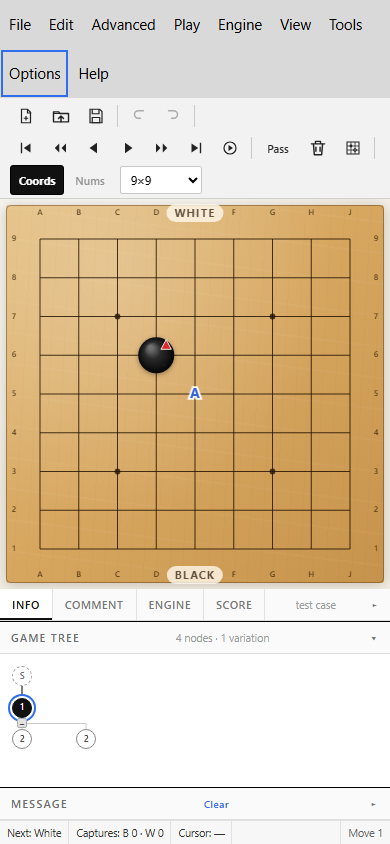
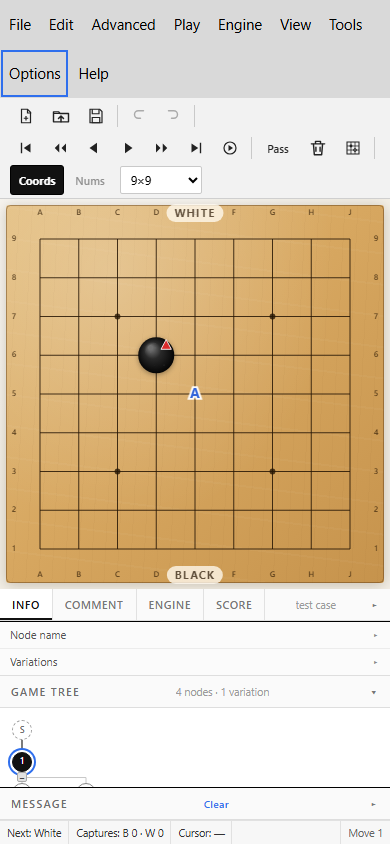
Add collapsible Node name and Variations sections

diff --git a/src/renderer.js b/src/renderer.js
@@ -131,6 +131,13 @@
   const fileLabel = $('#file-label');
   const infoDone = $('#info-done');
   const treeMeta = $('#tree-meta');
+  const branchPanels = $('#branch-panels');
+  const nodeNameHead = $('#node-name-head');
+  const nodeNameBody = $('#node-name-body');
+  const branchNodeName = $('#branch-node-name');
+  const variationsHead = $('#variations-head');
+  const variationsBody = $('#variations-body');
+  const variationsList = $('#variations-list');
   const gameTree = $('#game-tree');
   const infoFields = {
     black: $('#info-black'), blackRank: $('#info-black-rank'), blackTeam: $('#info-black-team'),
@@ -335,6 +342,8 @@
     showSiblings: false,
     zoom: 1,
     showTree: true,
+    nodeNameOpen: false,
+    variationsOpen: true,
     language: 'en',
     theme: 'classic',
     autoLayout: true,
@@ -400,6 +409,8 @@
         showSiblings: parsed.showSiblings === true,
         zoom: clamp(Number(parsed.zoom) || 1, 0.5, 2),
         showTree: parsed.showTree !== false,
+        nodeNameOpen: parsed.nodeNameOpen === true,
+        variationsOpen: parsed.variationsOpen !== false,
         language: parsed.language === 'zh' ? 'zh' : 'en',
         theme: THEMES.includes(parsed.theme) ? parsed.theme : 'classic',
         autoLayout: parsed.autoLayout !== false,
@@ -850,6 +861,7 @@
   let lastBoardError = '';
   let portraitLayout = false;
   let portraitOpenPanel = 'tree';
+  let portraitBranchOpen = null;
   let responsiveFrame = 0;
 
   const startupParams = new URLSearchParams(window.location.search);
@@ -3392,6 +3404,102 @@
     if (current) current.scrollIntoView({ block: 'nearest', inline: 'nearest' });
   }
 
+  function applyBranchSectionState() {
+    const nameOpen = portraitLayout ? portraitBranchOpen === 'name' : settings.nodeNameOpen;
+    const variationsOpen = portraitLayout ? portraitBranchOpen === 'variations' : settings.variationsOpen;
+    nodeNameBody.hidden = !nameOpen;
+    variationsBody.hidden = !variationsOpen;
+    nodeNameHead.setAttribute('aria-expanded', String(nameOpen));
+    variationsHead.setAttribute('aria-expanded', String(variationsOpen));
+    nodeNameHead.querySelector('.tree-section-chevron').textContent = nameOpen ? '▾' : '▸';
+    variationsHead.querySelector('.tree-section-chevron').textContent = variationsOpen ? '▾' : '▸';
+  }
+
+  function renderBranchSections() {
+    if (!tree) return;
+    const node = currentNode();
+    branchNodeName.value = node?.data.N?.[0] || '';
+    branchNodeName.disabled = readOnly;
+    variationsList.replaceChildren();
+    const children = node?.children || [];
+    if (children.length === 0) {
+      const empty = document.createElement('div');
+      empty.className = 'variations-empty';
+      empty.textContent = 'No next moves.';
+      variationsList.append(empty);
+      return;
+    }
+    const head = document.createElement('div');
+    head.className = 'variations-row is-head';
+    for (const text of ['#', 'Move', 'Branch']) {
+      const cell = document.createElement('span');
+      cell.textContent = text;
+      head.append(cell);
+    }
+    variationsList.append(head);
+    const dims = gameSize();
+    children.forEach((child, index) => {
+      const row = document.createElement('button');
+      row.type = 'button';
+      row.className = 'variations-row';
+      row.title = `Go to next move ${index + 1}`;
+      const number = document.createElement('span');
+      number.textContent = String(index + 1);
+      const move = document.createElement('span');
+      move.textContent = nodeLabel(child, dims);
+      const name = document.createElement('span');
+      name.textContent = child.data.N?.[0]?.trim() || `Branch ${index + 1}`;
+      row.append(number, move, name);
+      row.addEventListener('click', () => selectNode(child.id));
+      variationsList.append(row);
+    });
+  }
+
+  function commitBranchNodeName() {
+    if (!tree || readOnly) return;
+    const node = currentNode();
+    if (!node) return;
+    const value = branchNodeName.value.trim();
+    const previous = (node.data.N?.[0] || '').trim();
+    if (value === previous) { branchNodeName.value = previous; return; }
+    mutateTree((draft) => {
+      if (value) draft.updateProperty(node.id, 'N', [value]);
+      else draft.removeProperty(node.id, 'N');
+    }, { message: value ? 'Node name updated.' : 'Node name removed.' });
+  }
+
+  nodeNameHead.addEventListener('click', () => {
+    if (portraitLayout) {
+      portraitBranchOpen = portraitBranchOpen === 'name' ? null : 'name';
+      applyBranchSectionState();
+      return;
+    }
+    settings.nodeNameOpen = !settings.nodeNameOpen;
+    saveSettings();
+    applyBranchSectionState();
+  });
+  variationsHead.addEventListener('click', () => {
+    if (portraitLayout) {
+      portraitBranchOpen = portraitBranchOpen === 'variations' ? null : 'variations';
+      applyBranchSectionState();
+      return;
+    }
+    settings.variationsOpen = !settings.variationsOpen;
+    saveSettings();
+    applyBranchSectionState();
+  });
+  branchNodeName.addEventListener('change', commitBranchNodeName);
+  branchNodeName.addEventListener('keydown', (event) => {
+    if (event.key === 'Enter') {
+      event.preventDefault();
+      branchNodeName.blur();
+    } else if (event.key === 'Escape') {
+      event.preventDefault();
+      branchNodeName.value = currentNode()?.data.N?.[0] || '';
+      branchNodeName.blur();
+    }
+  });
+
   function closeNodeNameEditor() {
     if (nodeNameEditor) {
       nodeNameEditor.remove();
@@ -3836,6 +3944,8 @@
       scheduleBoardDraw();
     }
     renderTree();
+    renderBranchSections();
+    applyBranchSectionState();
     renderStatus();
     updateToolbar();
     syncMenuState();
@@ -5870,6 +5980,7 @@
       return;
     }
     portraitLayout = shouldPortrait;
+    portraitBranchOpen = null;
     workspace.classList.toggle('is-portrait', shouldPortrait);
     if (shouldPortrait) {
       verticalSplitter.hidden = true;
@@ -5883,6 +5994,7 @@
       applyLayout(layout, { persist: false });
     }
     applyPortraitAccordion();
+    applyBranchSectionState();
     updateBowls();
     syncMenuState();
     requestAnimationFrame(resizeBoard);

diff --git a/src/styles.css b/src/styles.css
@@ -917,6 +917,145 @@ button {
   font-style: italic;
 }
 
+/* ---------- Node name / next variations ---------- */
+
+.branch-panels {
+  flex: 0 0 auto;
+  border-bottom: 1px solid var(--hair);
+  background: #fbfbfb;
+}
+
+.tree-section + .tree-section {
+  border-top: 1px solid #ececec;
+}
+
+.tree-section-head {
+  display: flex;
+  width: 100%;
+  height: 26px;
+  align-items: center;
+  gap: 6px;
+  padding: 0 10px;
+  border: 0;
+  background: transparent;
+  color: #555;
+  font: inherit;
+  font-size: 10.5px;
+  letter-spacing: 0.02em;
+  text-align: left;
+  cursor: pointer;
+}
+
+.tree-section-head:hover {
+  background: #f0f0f0;
+}
+
+.tree-section-head:focus-visible {
+  outline: 2px solid var(--accent);
+  outline-offset: -2px;
+}
+
+.tree-section-chevron {
+  margin-left: auto;
+  color: #888;
+  font-size: 10px;
+}
+
+.tree-section-body {
+  max-height: 120px;
+  overflow: auto;
+  padding: 4px 8px 6px;
+  border-top: 1px solid #eee;
+  background: #fff;
+}
+
+.tree-section-body[hidden] {
+  display: none;
+}
+
+#branch-node-name {
+  width: 100%;
+  height: 24px;
+  padding: 0 5px;
+  border: 1px solid #c9c9c9;
+  border-radius: 2px;
+  background: #fff;
+  font: inherit;
+  font-size: 11.5px;
+}
+
+#branch-node-name:focus {
+  border-color: var(--accent);
+  outline: none;
+}
+
+.variations-list {
+  display: flex;
+  flex-direction: column;
+  font-size: 10.5px;
+}
+
+.variations-row {
+  display: grid;
+  grid-template-columns: 22px 62px minmax(0, 1fr);
+  align-items: center;
+  min-height: 20px;
+  padding: 1px 2px;
+  border: 0;
+  border-radius: 2px;
+  background: transparent;
+  color: #333;
+  font: inherit;
+  text-align: left;
+  cursor: pointer;
+}
+
+.variations-row:hover {
+  background: #eef4ff;
+}
+
+.variations-row.is-head {
+  color: #888;
+  font-size: 9.5px;
+  cursor: default;
+}
+
+.variations-row.is-head:hover {
+  background: transparent;
+}
+
+.variations-row span {
+  overflow: hidden;
+  text-overflow: ellipsis;
+  white-space: nowrap;
+}
+
+.variations-empty {
+  padding: 2px;
+  color: #999;
+  font-size: 10.5px;
+  font-style: italic;
+}
+
+.workspace.is-portrait .branch-panels,
+.workspace.is-portrait .tree-section {
+  position: relative;
+}
+
+.workspace.is-portrait .branch-panels {
+  z-index: 8;
+}
+
+.workspace.is-portrait .tree-section-body {
+  position: absolute;
+  left: 0;
+  right: 0;
+  top: 26px;
+  z-index: 9;
+  max-height: 110px;
+  box-shadow: 0 5px 12px rgba(0, 0, 0, 0.16);
+}
+
 /* ---------- Game tree ---------- */
 
 .game-tree {

diff --git a/src/index.html b/src/index.html
@@ -877,6 +877,24 @@
              aria-valuemin="12" aria-valuemax="80" aria-valuenow="41" tabindex="0"></div>
 
         <section class="pane pane-moves" id="pane-moves" aria-label="Game tree">
+          <div class="branch-panels" id="branch-panels">
+            <section class="tree-section" id="node-name-section">
+              <button type="button" class="tree-section-head" id="node-name-head" aria-expanded="false" aria-controls="node-name-body">
+                <span>Node name</span><span class="tree-section-chevron" aria-hidden="true">▸</span>
+              </button>
+              <div class="tree-section-body" id="node-name-body" hidden>
+                <input type="text" id="branch-node-name" maxlength="120" placeholder="Node name" aria-label="Node name">
+              </div>
+            </section>
+            <section class="tree-section" id="variations-section">
+              <button type="button" class="tree-section-head" id="variations-head" aria-expanded="true" aria-controls="variations-body">
+                <span>Variations</span><span class="tree-section-chevron" aria-hidden="true">▾</span>
+              </button>
+              <div class="tree-section-body" id="variations-body">
+                <div class="variations-list" id="variations-list"></div>
+              </div>
+            </section>
+          </div>
           <div class="panel-head" id="tree-head">
             <span>Game Tree</span>
             <span class="panel-meta" id="tree-meta">0 nodes</span>

diff --git a/README.md b/README.md
@@ -58,6 +58,10 @@ Released 2026-11-14. The Windows artifacts are `MultiGo-Neo-1.1.9-setup.exe` and
   The toolbar wraps the same way into additional rows at narrow widths.
 - **Slightly shorter chrome** — the menu row is **49 px** (was 54) and the toolbar row is
   **41 px** (was 46), about a 10% reduction, leaving more height for the board.
+- **Node name and Variations panels** — two collapsible sections sit directly above the Game
+  Tree. Node name edits the current node's `N` value; Variations lists the immediate next moves
+  with their move coordinate and branch name, and clicking a row navigates to it. Each header
+  collapses/restores its section, and the state persists.
 
 ### Version 1.1.8
 
@@ -185,6 +189,12 @@ See [Reload, imports and picture export](#reload-imports-and-picture-export),
   Double-click a node, press **F2**, or choose **Edit → Edit Node Name**; the editor opens in the
   tree beside that node. Save/Enter stores it, an empty value removes it, and Escape cancels. A
   named node displays its name beside the circle, including after reopening the SGF.
+- Above the Game Tree, **Node name** shows the current node's `N` in an editable field, and
+  **Variations** lists every immediate next move with its move coordinate and branch name.
+  Clicking a variation row navigates to that child. Both section headers collapse and restore
+  their bodies, and the open/closed state is remembered.
+
+![Node name and Variations sections above the Game Tree](preview/preview-branch-panels.png)
 
 ![Editable node names displayed in the game tree](preview/preview-node-name.png)
 - Expanding restores the subtree; collapse state is kept while editing the same game.
@@ -1390,7 +1400,7 @@ scripts/verify-review-ui.mjs CDP test for sibling badges, Read Only, game info a
 scripts/verify-r17-ui.mjs CDP test for player columns, compact panes, single-branch hints, fast/steps, delete and comment height
 scripts/verify-tree-collapse-ui.mjs CDP test for orthogonal tree bones and branch expand/collapse
 scripts/verify-tree-main-ui.mjs CDP test for leftmost main variation, 1.32x row pitch, 64 px columns, bottom toggles and initial collapse
-scripts/verify-node-name-ui.mjs CDP test for N-property labels and the inline game-tree name editor
+scripts/verify-node-name-ui.mjs CDP test for N labels, the inline tree editor, and the Node name/Variations sections above the Game Tree
 scripts/verify-paper-theme-ui.mjs CDP test for flat printed stones in the Paper theme
 scripts/verify-dirty-transform-ui.mjs CDP test for unsaved prompts, board transforms, G reset and fullscreen
 scripts/verify-file-tools-ui.mjs CDP test for Reload, branch imports, board PNG export and Ctrl-Q
